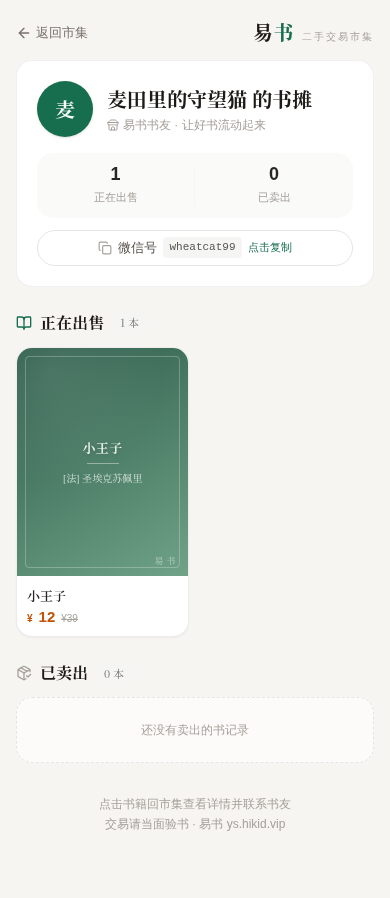
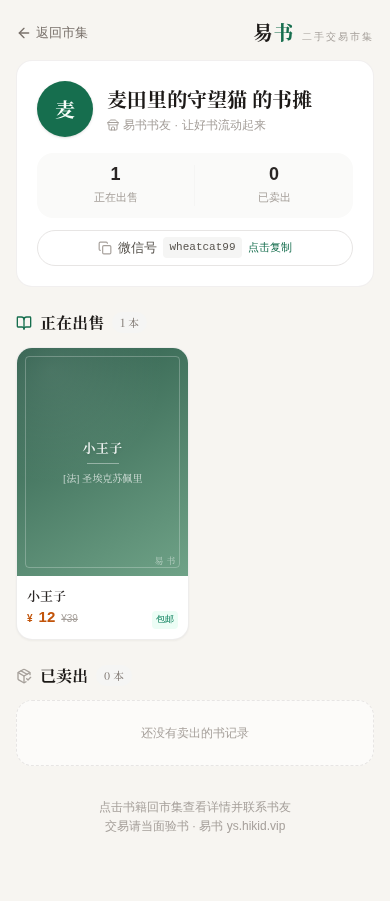
9a5d95e6-e6b1-40ec-bd33-3bac61663cbe

diff --git a/src/app/api/og/book/[id]/route.tsx b/src/app/api/og/book/[id]/route.tsx
@@ -160,34 +160,41 @@ export async function GET(req: Request, { params }: Params) {
           justifyContent: "space-between",
         }}
       >
-        <div style={{ display: "flex", alignItems: "baseline", gap: 8 }}>
-          {ok && !book!.sold ? (
-            <>
-              <span style={{ fontSize: 40, fontWeight: 600 }}>¥</span>
-              <span style={{ fontSize: 72, fontWeight: 600, letterSpacing: 2 }}>
-                {formatPrice(book!.price)}
-              </span>
-              {book!.freeShipping ? (
-                <span
-                  style={{
-                    fontSize: 24,
-                    fontWeight: 600,
-                    letterSpacing: 2,
-                    padding: "8px 26px",
-                    border: "2px solid rgba(255,255,255,0.8)",
-                    borderRadius: 40,
-                    marginLeft: 14,
-                  }}
-                >
-                  包邮
+        <div style={{ display: "flex", alignItems: "flex-end" }}>
+          <div style={{ display: "flex", alignItems: "baseline", gap: 8 }}>
+            {ok && !book!.sold ? (
+              <>
+                <span style={{ fontSize: 40, fontWeight: 600 }}>¥</span>
+                <span style={{ fontSize: 72, fontWeight: 600, letterSpacing: 2 }}>
+                  {formatPrice(book!.price)}
                 </span>
-              ) : null}
-            </>
-          ) : (
-            <span style={{ fontSize: ok ? 60 : 44, fontWeight: 600, letterSpacing: 4 }}>
-              {ok ? "已售出" : "让好书流动起来"}
+              </>
+            ) : (
+              <span style={{ fontSize: ok ? 60 : 44, fontWeight: 600, letterSpacing: 4 }}>
+                {ok ? "已售出" : "让好书流动起来"}
+              </span>
+            )}
+          </div>
+          {ok && !book!.sold && book!.freeShipping ? (
+            <span
+              style={{
+                display: "flex",
+                alignItems: "center",
+                justifyContent: "center",
+                height: 54,
+                padding: "0 26px",
+                border: "2px solid rgba(255,255,255,0.8)",
+                borderRadius: 27,
+                fontSize: 24,
+                fontWeight: 600,
+                letterSpacing: 2,
+                marginLeft: 14,
+                marginBottom: 10,
+              }}
+            >
+              包邮
             </span>
-          )}
+          ) : null}
         </div>
         {qr ? (
           <div
